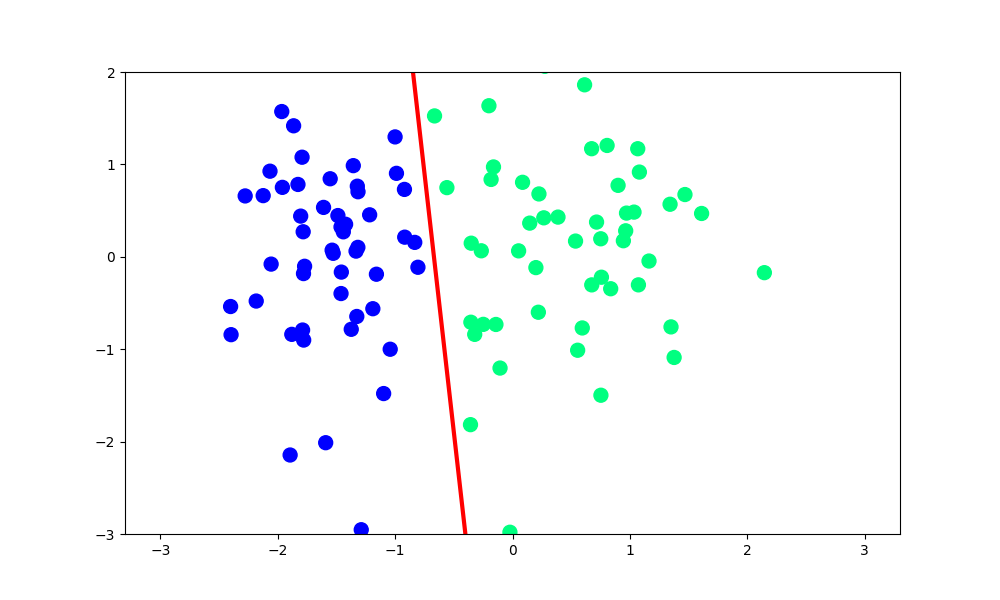
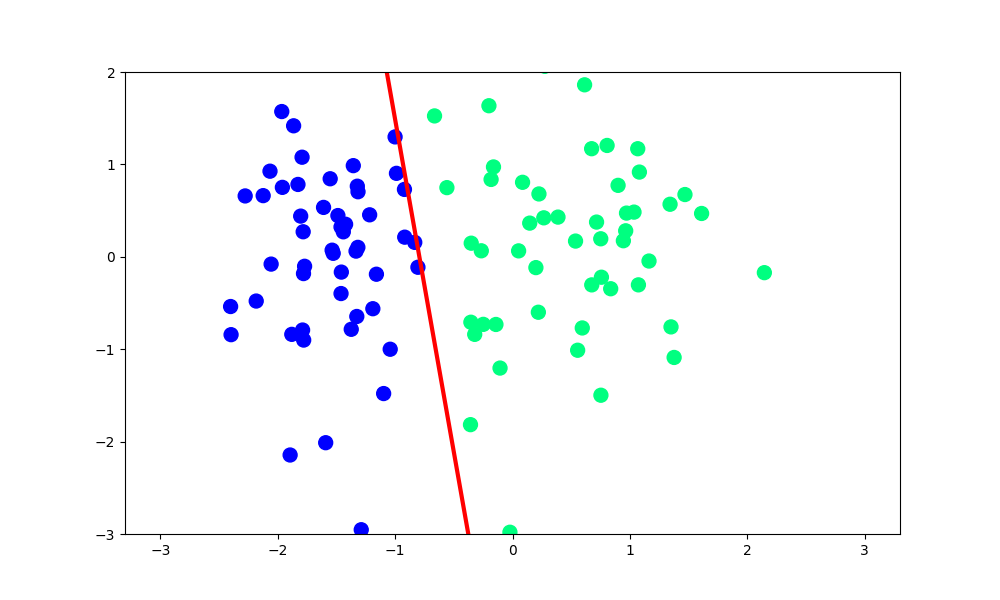
gradient descent

Changed region(s): [[0.372, 0.12, 0.465, 0.78]]

diff --git a/perceptron-demo.py b/perceptron-demo.py
@@ -108,5 +108,40 @@ def update(i):
     line.set_ydata(x_i*m[i]+b[i])
     ax.set_xlabel(label)
 
+def perceptron_gradient(X,y):
+    w1=w2=b=1
+    lr = 0.1
+    for j in range(1000): #epochs
+        for i in range(X.shape[0]):
+
+            z=w1*X[i][0]+w2*X[i][1]+b
+
+            if z*y[i]<0:    #misclassified/ update weights
+                w1 += lr*y[i]*X[i][0]
+                w2 += lr*y[i]*X[i][1]
+                b += lr*y[i]
+        
+    return w1,w2,b
+
+
 ani = FuncAnimation(fig, update,repeat=True, frames=np.arange(0, len(m)), interval=100) 
 ani.save('output/makeClassificationanimation.gif', writer='imagemagick', fps=10)
+
+
+def calculate_Slope(w1,w2,b):
+    m= -(w1/w2)
+    c= -(b/w2)
+    return m,c
+
+w1,w2,b = perceptron_gradient(X,y)
+print(w1,w2,b)
+m,c = calculate_Slope(w1,w2,b)
+
+x_input = np.linspace(-3,3,100)
+y_input = m*x_input + c
+
+plt.figure(figsize=(10,6))
+plt.plot(x_input,y_input,color ='red', linewidth =3)
+plt.scatter(X[:,0],X[:,1],c=y, cmap='winter', s=100)
+plt.ylim(-3,2)
+plt.savefig('output/makeClassificationwithgradient.png')
